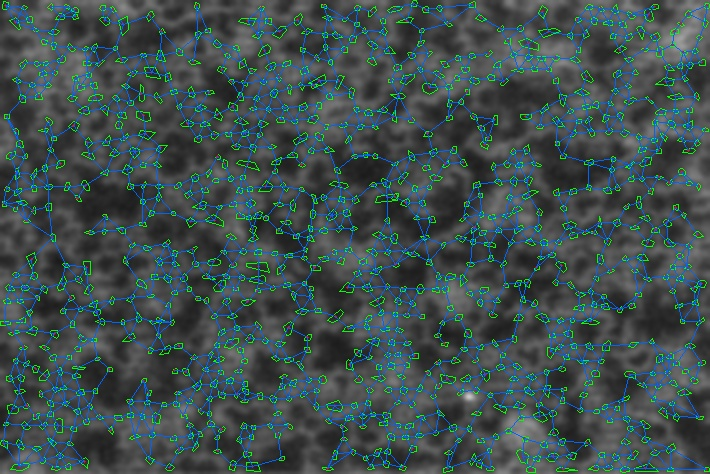
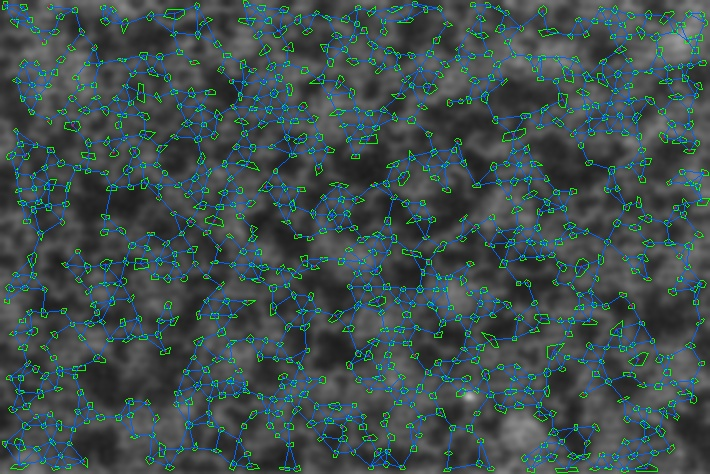
New S2 results with 13 int blur, and 16 nm hexagon prediction

Changed region(s): [[0.0, 0.0, 1.0, 1.0]]

diff --git a/main.py b/main.py
@@ -280,11 +280,11 @@ if __name__ == "__main__":
     # Roxxannia's path
     # imagePath = "C:/Users/roxxa/OneDrive/University/Masters/Code/CrackThoseHexagons/VAT4-TESTING.jpg"
     # Sophie's path  
-    imagePath = "to_use/Vat3/S3_006.jpg"
+    imagePath = "to_use/Vat2/S2_015.jpg"
     # imagePath = "C:/Users/Owner/OneDrive/Documents/School/Masters/Research/Code/hexagons_git/CrackThoseHexagons/to_use/vat4/S4_009.jpg"
     
     # Estimated by hand
-    predictedHexagonSize = 14 #nm
+    predictedHexagonSize = 17 #nm
 
     minArea, maxArea = findThresholds(predictedHexagonSize)
     # print("min area: ", minArea)
